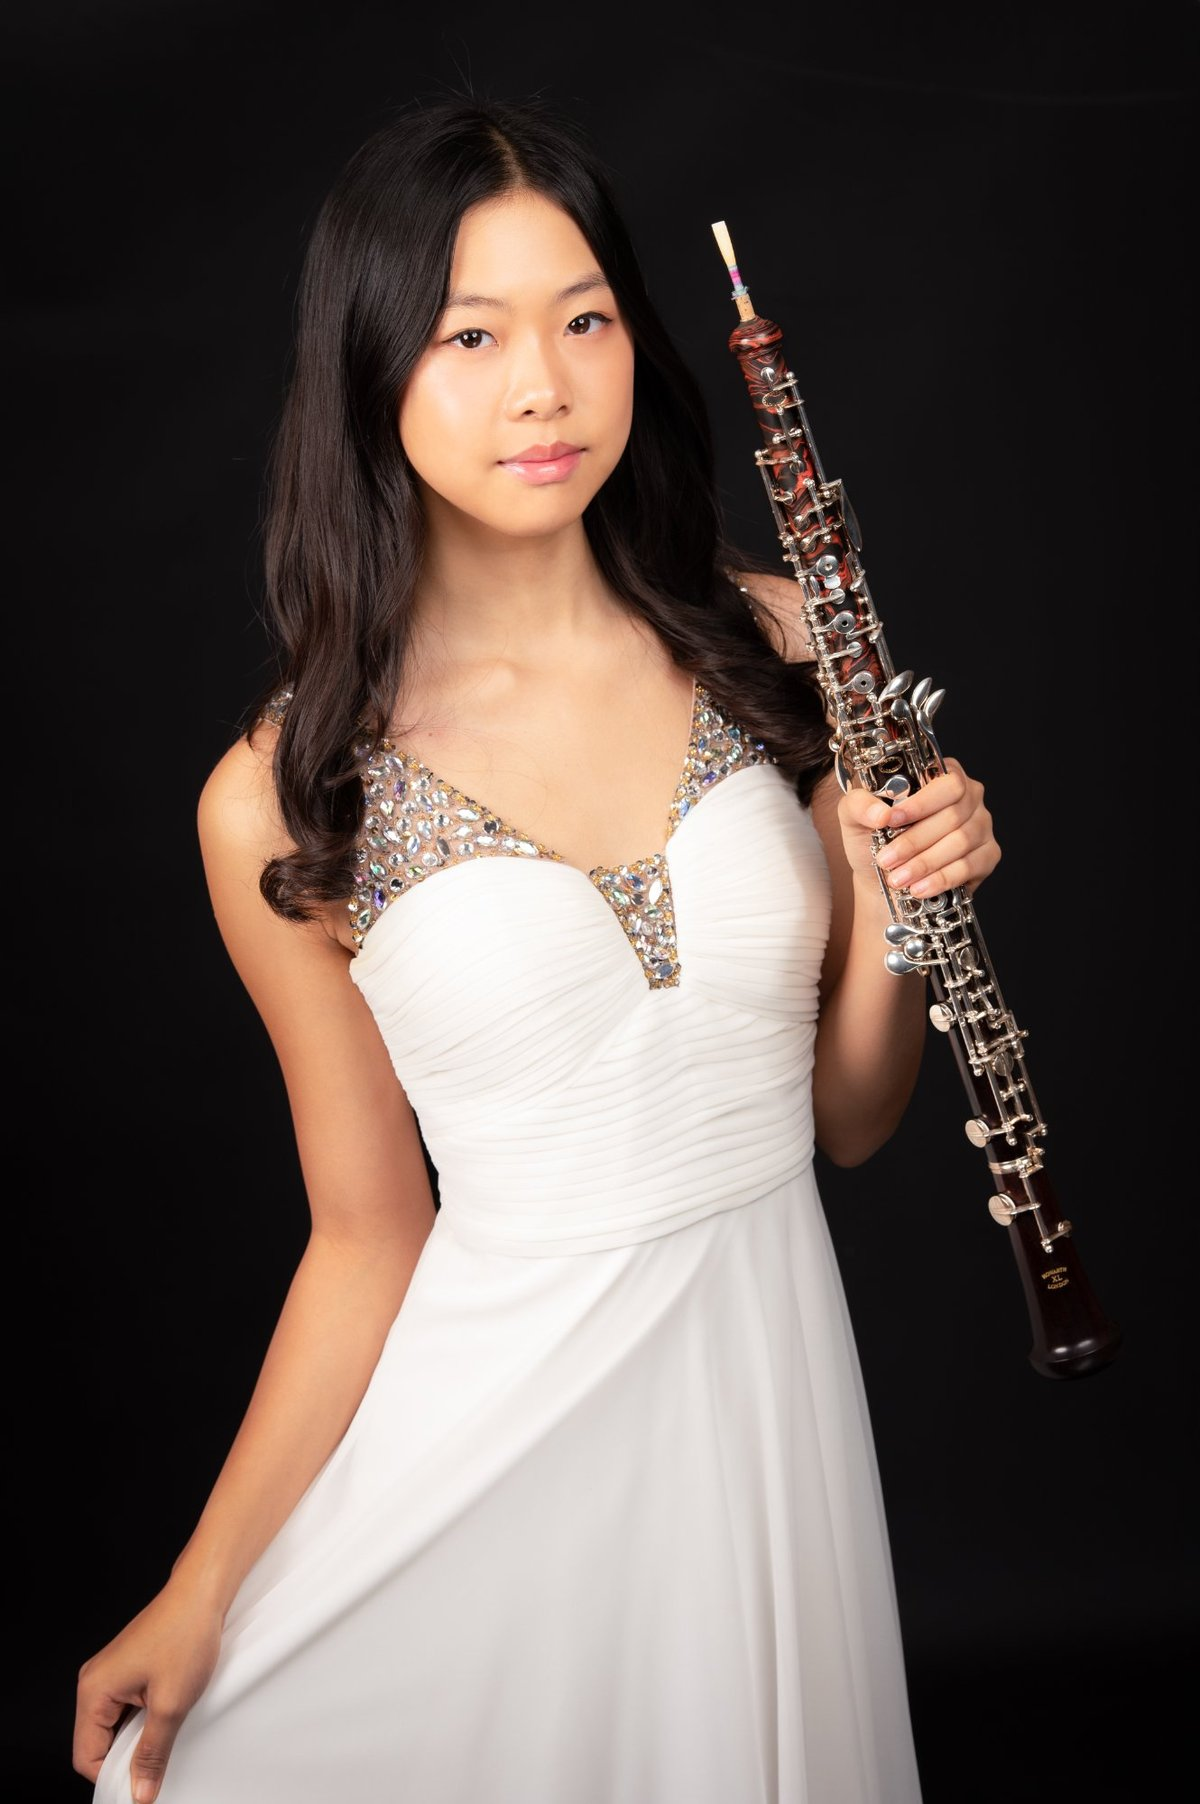
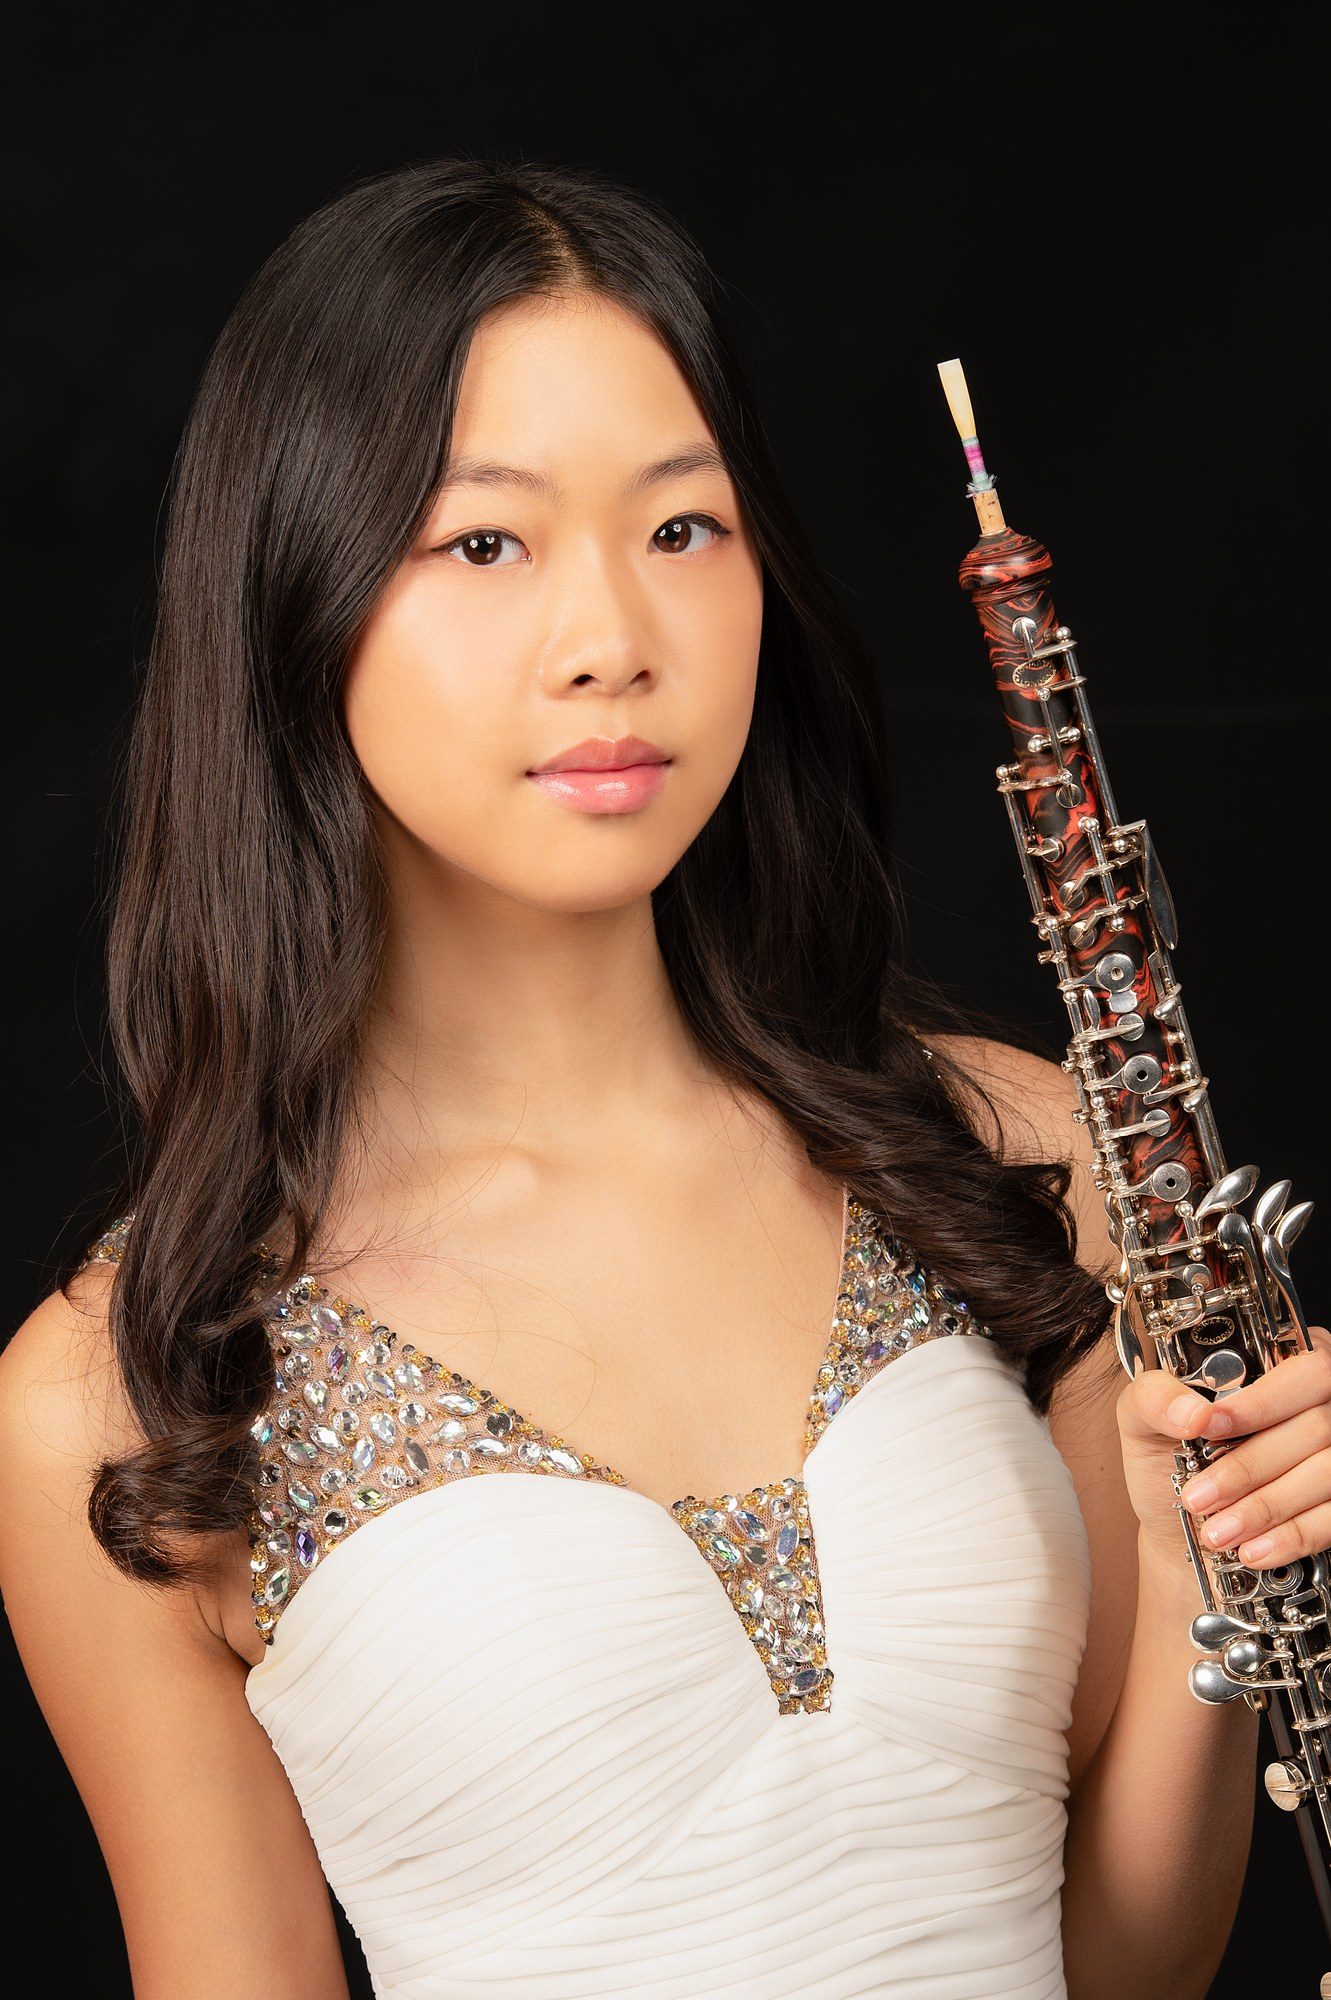
Add files via upload

diff --git a/bio.html b/bio.html
@@ -1,0 +1,173 @@
+<!DOCTYPE html>
+<html lang="en">
+<head>
+<meta charset="UTF-8">
+<meta name="viewport" content="width=device-width, initial-scale=1.0">
+<title>Bio — Irene Lee</title>
+<link href="https://fonts.googleapis.com/css2?family=Cormorant+Garamond:ital,wght@0,300;0,400;0,500;0,600;1,300;1,400;1,600&family=Cinzel:wght@400;500;600;700;800&family=DM+Sans:wght@300;400;500&display=swap" rel="stylesheet">
+<style>
+* { margin:0; padding:0; box-sizing:border-box; }
+:root { --white:#FFFFFF; --ivory:#FAFAF7; --ink:#1A1A1A; --ink2:#3D3D3D; --muted:#888; --sage:#7A9E87; --sage-light:#EAF1EC; --border:#E5E5E0; --warm:#F5F0E8; }
+html { font-family:'DM Sans',sans-serif; color:var(--ink); background:var(--ivory); }
+
+/* Nav — flipped: links on left, name on right (Ryan Roberts style) */
+nav {
+  position:fixed; top:0; left:0; right:0; z-index:200;
+  display:flex; justify-content:space-between; align-items:center;
+  padding:0 56px; height:64px;
+  background:rgba(250,250,247,0.96); backdrop-filter:blur(12px);
+  border-bottom:1px solid var(--border);
+}
+.nav-links { display:flex; }
+.nav-link {
+  padding:0 20px; height:64px; display:flex; align-items:center;
+  font-size:11px; letter-spacing:2.5px; text-transform:uppercase;
+  font-weight:500; color:var(--muted); text-decoration:none;
+  border-bottom:2px solid transparent; transition:all 0.2s;
+}
+.nav-link:first-child { padding-left:0; }
+.nav-link:hover { color:var(--ink); border-bottom-color:var(--sage); }
+.nav-link.active { color:var(--ink); border-bottom-color:var(--sage); }
+.nav-logo a {
+  display: flex;
+  align-items: center;
+  text-decoration: none;
+}
+.nav-logo img {
+  height: 32px;
+  width: auto;
+  display: block;
+}
+
+/* Main bio layout */
+.bio-page { padding:120px 56px 56px; max-width:1200px; margin:0 auto; }
+
+.bio-layout {
+  display:grid;
+  grid-template-columns:1fr 1.15fr;
+  gap:64px;
+  align-items:start;
+}
+
+.bio-photo img {
+  width:100%; display:block; border-radius:4px;
+  box-shadow:0 8px 30px rgba(0,0,0,0.12);
+}
+
+.bio-content { padding-top:8px; }
+
+.bio-content p {
+  font-family:'Cormorant Garamond',serif;
+  font-size:20px; line-height:1.85;
+  color:var(--ink2); margin-bottom:22px;
+}
+
+.bio-content p:last-child { margin-bottom:0; }
+
+.bio-content .name-intro {
+  font-family:'Cinzel',serif;
+  font-weight:700; color:var(--ink);
+  letter-spacing:2.5px; font-size:26px;
+  margin-right:4px;
+}
+
+.bio-content a {
+  color:var(--ink);
+  text-decoration:underline;
+  text-decoration-thickness:1px;
+  text-underline-offset:4px;
+  text-decoration-color:var(--sage);
+  transition:all 0.2s;
+}
+.bio-content a:hover {
+  color:var(--sage);
+  text-decoration-color:var(--ink);
+}
+
+/* Info grid */
+.bio-info {
+  display:grid; grid-template-columns:repeat(3,1fr); gap:1px;
+  background:var(--border); margin-top:72px;
+  border:1px solid var(--border);
+}
+.bio-info-item { background:var(--white); padding:24px 28px; }
+.bio-info-label {
+  font-size:10px; letter-spacing:2px; text-transform:uppercase;
+  color:var(--muted); margin-bottom:8px;
+}
+.bio-info-value {
+  font-family:'Cormorant Garamond',serif;
+  font-size:17px; color:var(--ink); line-height:1.4;
+}
+
+/* Footer */
+.site-footer {
+  background:var(--white); border-top:1px solid var(--border);
+  padding:28px 56px;
+  display:flex; justify-content:space-between; align-items:center;
+  margin-top:80px;
+}
+.footer-name { font-family:'Cinzel',serif; font-size:14px; color:var(--ink); }
+.footer-copy { font-size:12px; color:var(--muted); }
+
+/* Mobile responsive */
+@media (max-width:900px) {
+  nav { padding:0 20px; }
+  .nav-link { padding:0 10px; font-size:10px; letter-spacing:1.5px; }
+  .nav-logo a { font-size:14px; }
+  .nav-logo img { height: 26px; }
+  .bio-page { padding:100px 24px 40px; }
+  .bio-layout {
+    grid-template-columns:1fr;
+    gap:32px;
+  }
+  .bio-photo img { max-width:500px; margin:0 auto; }
+  .bio-content p { font-size:17px; line-height:1.75; }
+  .bio-info { grid-template-columns:1fr; margin-top:48px; }
+  .site-footer { flex-direction:column; gap:8px; text-align:center; padding:24px; }
+}
+</style>
+</head>
+<body>
+<nav>
+  <div class="nav-links">
+    <a class="nav-link active" href="bio.html">Bio</a>
+    <a class="nav-link" href="awards.html">Highlights</a>
+    <a class="nav-link" href="video.html">Video</a>
+    <a class="nav-link" href="gallery.html">Gallery</a>
+    <a class="nav-link" href="contact.html">Contact</a>
+  </div>
+  <div class="nav-logo"><a href="index.html"><img src="logo-black.png" alt="Irene Lee"></a></div>
+</nav>
+
+<main class="bio-page">
+  <div class="bio-layout">
+    <div class="bio-photo">
+      <img src="bio_photo.jpg" alt="Irene Lee">
+    </div>
+    <div class="bio-content">
+      <p><span class="name-intro">IRENE LEE</span> began her oboe studies at the age of eleven and quickly emerged as one of the most promising young oboists of her generation. A student of The Juilliard School Pre-College Division since 2021, she has distinguished herself at the national and international levels through both her artistry and her competitive achievements.</p>
+
+      <p>In 2026, Irene was honored with the <a href="https://www.youtube.com/watch?v=m64l-_t_ops" target="_blank" rel="noopener">National YoungArts Award with Distinction</a>. In 2024, she made history at the <a href="https://www.juilliard.edu/sites/default/files/5.4_pcs.pdf" target="_blank" rel="noopener">Juilliard Pre-College Open Concerto Competition</a>, becoming the first oboist in 24 years to win the competition. She also won First Prize at the <a href="https://njwindsymphony.org/ysc-2023-2024-winners/" target="_blank" rel="noopener">NJ Soloist Competition</a> in the same year. Other recognitions include selection as a finalist for the IYACC in Chicago and a Silver Medal at the Bravura Philharmonic Young Artists Concerto Competition, among others.</p>
+
+      <p>Irene has been selected as one of three oboists for the <a href="https://www.carnegiehall.org/Education/Programs/National-Youth-Ensembles/NYO2/NYO2-2024#:~:text=Oboe" target="_blank" rel="noopener">National Youth Orchestra of the United States (NYO2)</a> in 2023 and 2024. In 2025, she was chosen as one of two oboists for the internationally prestigious <a href="https://verbierfestival.com/en/" target="_blank" rel="noopener">Verbier Festival Junior Orchestra</a> in Switzerland and will be returning in the summer of 2026. She will also participate in the Tanglewood Oboe Workshop in that same year.</p>
+
+      <p>In the beginning of 2026, Irene was invited as a guest oboist by the Princeton University Orchestra for their annual winter concert.</p>
+
+      <p>Beyond music, Irene has a love for writing. She writes stories of all genres, and is set to publish <a href="https://irenelee.org/" target="_blank" rel="noopener">her first book</a>—a creative nonfiction novel—in the near future. Not only that, Irene has a love for dancing, running, and spending time with friends.</p>
+    </div>
+  </div>
+
+  <div class="bio-info">
+    <div class="bio-info-item"><div class="bio-info-label">Instrument</div><div class="bio-info-value">Oboe &amp; English Horn</div></div>
+    <div class="bio-info-item"><div class="bio-info-label">School</div><div class="bio-info-value">Juilliard Pre-College</div></div>
+    <div class="bio-info-item"><div class="bio-info-label">Based in</div><div class="bio-info-value">New York / New Jersey</div></div>
+  </div>
+</main>
+
+<footer class="site-footer">
+  <div class="footer-name">IRENE LEE</div>
+  <div class="footer-copy">© 2026 Irene Lee. All rights reserved.</div>
+</footer>
+</body>
+</html>

diff --git a/index.html b/index.html
@@ -1,0 +1,155 @@
+<!DOCTYPE html>
+<html lang="en">
+<head>
+<meta charset="UTF-8">
+<meta name="viewport" content="width=device-width, initial-scale=1.0">
+<title>Irene Lee — Oboist</title>
+<link href="https://fonts.googleapis.com/css2?family=Cormorant+Garamond:ital,wght@0,300;0,400;0,500;0,600;1,300;1,400&family=Inter:wght@300;400;500;600&display=swap" rel="stylesheet">
+<style>
+* { margin:0; padding:0; box-sizing:border-box; }
+:root { --sage:#7A9E87; --sage-light:#EAF1EC; }
+html, body { height:100%; }
+body { font-family:'Inter', sans-serif; background:#000; color:#fff; overflow-x:hidden; }
+
+#hero {
+  position:relative;
+  width:100%;
+  height:100vh;
+  min-height:700px;
+  overflow:hidden;
+}
+
+/* Background photo — natural brightness */
+#hero::before {
+  content:'';
+  position:absolute;
+  inset:0;
+  background-image:url('orchestra-bg.jpg');
+  background-size:auto 140%;
+  background-position:center bottom;
+  background-repeat:no-repeat;
+  z-index:0;
+}
+
+/* Vignette + Irene spotlight + targeted darkening on girl in black */
+#hero::after {
+  content:'';
+  position:absolute;
+  inset:0;
+  background:
+    /* Subtle warm light on Irene */
+    radial-gradient(ellipse 14% 18% at 47% 72%, rgba(255,240,200,0.25) 0%, transparent 70%),
+    /* Targeted darkening on girl in black behind Irene */
+    radial-gradient(ellipse 6% 7% at 41% 48%, rgba(0,0,0,0.78) 0%, transparent 95%),
+    /* Targeted darkening on girl directly behind Irene (head visible above) */
+    radial-gradient(ellipse 5% 6% at 44% 28%, rgba(0,0,0,0.65) 0%, transparent 95%),
+    /* Vignette — clear at Irene's position, darker at edges */
+    radial-gradient(ellipse 68% 68% at 47% 72%, transparent 22%, rgba(0,0,0,0.78) 100%),
+    /* Subtle overall darkening of non-Irene area */
+    radial-gradient(ellipse 25% 25% at 47% 72%, transparent 0%, transparent 50%, rgba(0,0,0,0.12) 100%),
+    /* Text readability on left side */
+    linear-gradient(to right, rgba(0,0,0,0.35) 0%, rgba(0,0,0,0) 35%, rgba(0,0,0,0) 65%, rgba(0,0,0,0.15) 100%);
+  z-index:1;
+}
+
+.hero-content {
+  position:relative;
+  z-index:2;
+  padding:55px 65px;
+  height:100%;
+  display:flex;
+  flex-direction:column;
+  justify-content:space-between;
+}
+
+.hero-top { max-width:600px; }
+
+.hero-logo {
+  height: 80px;
+  width: auto;
+  margin-bottom: 12px;
+  display: block;
+  filter: drop-shadow(0 2px 20px rgba(0,0,0,0.5));
+}
+
+.hero-subtitle {
+  font-family:'Inter', sans-serif;
+  font-size:15px;
+  color:rgba(255,255,255,0.85);
+  letter-spacing:0.05em;
+  font-weight:300;
+  margin-bottom:24px;
+  text-shadow:0 1px 8px rgba(0,0,0,0.6);
+}
+
+.hero-nav {
+  display:flex;
+  gap:28px;
+  flex-wrap:wrap;
+}
+
+.hero-nav a {
+  color:#fff;
+  text-decoration:none;
+  font-size:13px;
+  letter-spacing:0.22em;
+  font-weight:500;
+  text-transform:uppercase;
+  transition:opacity 0.2s;
+  text-shadow:0 1px 8px rgba(0,0,0,0.6);
+}
+
+.hero-nav a:hover { opacity:0.65; }
+
+.hero-tags {
+  display:flex;
+  gap:16px;
+  flex-wrap:wrap;
+  font-size:10px;
+  letter-spacing:0.12em;
+  font-weight:500;
+  color:rgba(255,255,255,0.9);
+  text-shadow:0 1px 8px rgba(0,0,0,0.7);
+  text-transform:uppercase;
+}
+
+.hero-tags span { white-space:nowrap; }
+.hero-tags .dot { opacity:0.4; }
+
+@media (max-width:768px) {
+  .hero-content { padding:35px 25px; }
+  .hero-logo { height: 56px; }
+  .hero-subtitle { font-size:12px; margin-bottom:18px; }
+  .hero-nav { gap:18px; }
+  .hero-nav a { font-size:11px; letter-spacing:0.18em; }
+  .hero-tags { gap:12px; font-size:9px; }
+}
+</style>
+</head>
+<body>
+<div id="hero">
+  <div class="hero-content">
+      <div class="hero-top">
+      <img src="logo-white.png" alt="Irene Lee" class="hero-logo">
+      <div class="hero-subtitle">Oboe &amp; English Horn</div>
+      <nav class="hero-nav">
+        <a href="bio.html">Bio</a>
+        <a href="awards.html">Highlights</a>
+        <a href="video.html">Video</a>
+        <a href="gallery.html">Gallery</a>
+        <a href="contact.html">Contact</a>
+      </nav>
+    </div>
+    <div class="hero-tags">
+      <span>Juilliard Pre-College · Since 2021</span>
+      <span class="dot">·</span>
+      <span>YoungArts 2026 — Distinction</span>
+      <span class="dot">·</span>
+      <span>Verbier Festival · 2025, 2026</span>
+      <span class="dot">·</span>
+      <span>NYO2 · 2023, 2024</span>
+    </div>
+  </div>
+</div>
+</body>
+</html>
